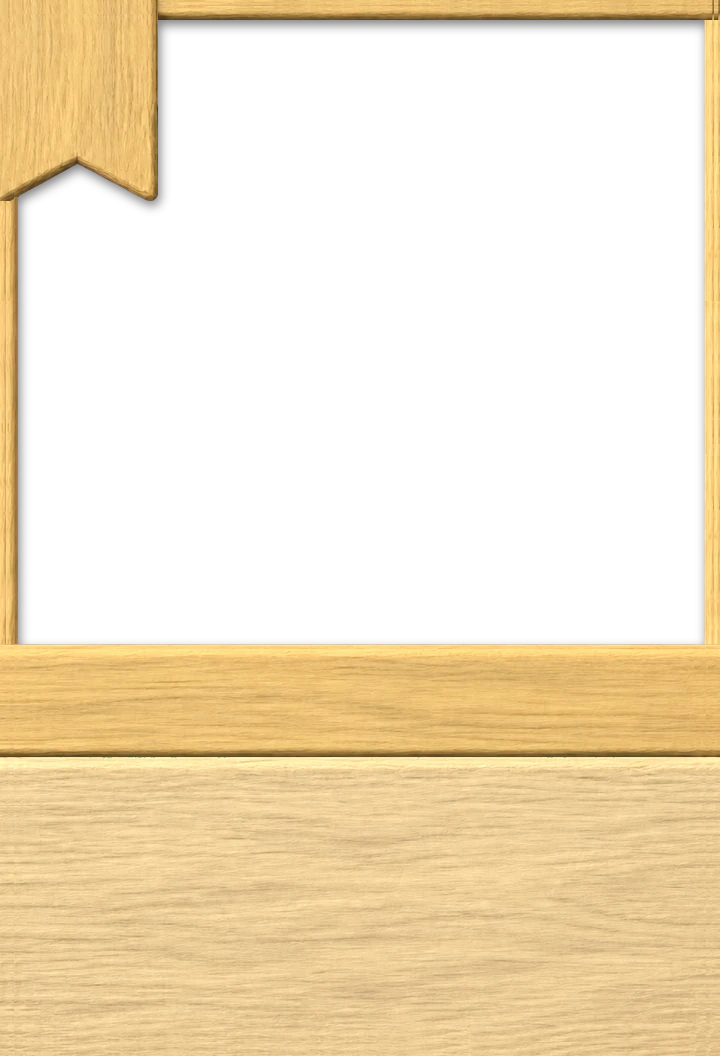
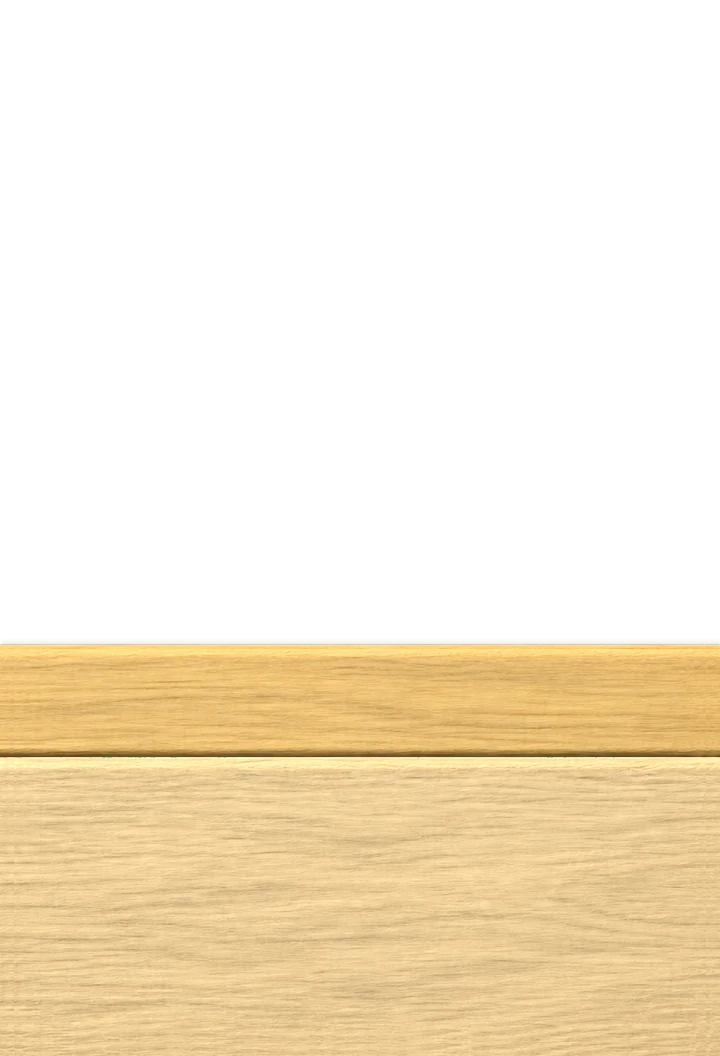
Stars prototype: no border; strength and level on wooden badges straddling the card's corners (Martin, 2026-11-15: the rim "takes away so much from the painting and gives so little", the star floated)
The painting is the card, its corners rounded; strength is inked on a round driftwood slice over the top-left corner, the
level inside the star over the bottom-right, each breaking the card's outline as Hearthstone's gems do. The disc is a
Codex painting, the star's sibling, toned and tinted by the bake.

Changed region(s): [[0.0, 0.0, 1.0, 0.625]]

diff --git a/animal_kingdom/web/static/app.css b/animal_kingdom/web/static/app.css
@@ -202,25 +202,36 @@ body:has(> #app > .mscr.home, > #app > .mscr.news, > #app > .mscr.sets, > #app >
    the collection (compact, --rd 0) it runs to the bottom with only the strength banner on it and the level's banner rising
    from the bottom-right; read in full (--rd 1, also set where game.css reads a hand card) it stops at the name plank, the
    rules panel below. The pieces carry their own shadow (baked: a live filter on every card overran graphics memory). */
-.card.fo { --rp: 11.45em; --frf: url(/static/kit2/card_frame_common_open.webp); --frc: url(/static/kit2/card_frame_common_open_compact.webp);
-  --fstar: url(/static/kit2/card_face_star_common.webp); --fplank: url(/static/kit2/card_face_plank_common.webp); }
-.card.fo.rare { --frf: url(/static/kit2/card_frame_rare_open.webp); --frc: url(/static/kit2/card_frame_rare_open_compact.webp);
-  --fstar: url(/static/kit2/card_face_star_rare.webp); --fplank: url(/static/kit2/card_face_plank_rare.webp); }
-.card.fo.legendary { --frf: url(/static/kit2/card_frame_legendary_open.webp); --frc: url(/static/kit2/card_frame_legendary_open_compact.webp);
-  --fstar: url(/static/kit2/card_face_star_legendary.webp); --fplank: url(/static/kit2/card_face_plank_legendary.webp); }
+.card.fo { --rp: 11.45em; --frf: url(/static/kit2/card_frame_common_open.webp); --frc: none;
+  --fstar: url(/static/kit2/card_face_star_common.webp); --fdisc: url(/static/kit2/card_face_disc_common.webp); --fplank: url(/static/kit2/card_face_plank_common.webp); }
+.card.fo.rare { --frf: url(/static/kit2/card_frame_rare_open.webp);
+  --fstar: url(/static/kit2/card_face_star_rare.webp); --fdisc: url(/static/kit2/card_face_disc_rare.webp); --fplank: url(/static/kit2/card_face_plank_rare.webp); }
+.card.fo.legendary { --frf: url(/static/kit2/card_frame_legendary_open.webp);
+  --fstar: url(/static/kit2/card_face_star_legendary.webp); --fdisc: url(/static/kit2/card_face_disc_legendary.webp); --fplank: url(/static/kit2/card_face_plank_legendary.webp); }
+/* No border: the painting is the card, its own corners rounded, and the two numbers sit on wooden badges straddling the
+   card's corners as Hearthstone's gems do (Martin, 2026-11-15: the rim "takes away so much from the painting and gives so
+   little"; a badge inside the picture floats). The card no longer clips, so the badges can break its outline. */
+.card.fo { overflow: visible; }
+.card.fo .pic, .card.fo .cframe { border-radius: inherit; overflow: hidden; }
 .card.fo.compact { --rd: 0; }
 .card.fo .pic { top: 0; }
 .card.fo .pic::after { display: none; }
+.card.fo.legendary::after { display: none; }
+.card.fo.legendary .pic::after { display: block; content: ''; position: absolute; top: -20%; bottom: -20%; left: 0; width: 35%; height: auto;
+  background: linear-gradient(90deg, rgba(255,240,200,0), rgba(255,240,200,.16), rgba(255,240,200,0)); animation: cardsheen 5.5s ease-in-out infinite; }
+@media (prefers-reduced-motion: reduce) { .card.fo.legendary .pic::after { display: none; } }
 .card.fo .nbar { top: auto; bottom: 8.4em; height: 3em; left: .55em; right: .55em; opacity: var(--rd, 1); }
 .card.fo .nbar::after { flex-grow: 1; }
 .card.fo .ctext { bottom: .4em; height: 7.75em; }
-/* The level's star (the painted star with its shadow's margin, .33em each side): on the rim's bottom-right corner; read
-   in full it sits on the name plank's top edge at the painting's corner. The number is inked in its middle. */
-.card.fo .lstar { position: absolute; z-index: 3; right: -.12em; bottom: calc(var(--rd, 1) * 9.32em - .12em); width: 4.66em; height: 4.55em;
+/* The badges: each painted piece (with its shadow's margin of .33em) centred near its corner so a third of it overhangs. */
+.card.fo .stab { left: -1.25em; top: -1.25em; width: 6em; height: 6em; background: var(--fdisc) 0 0 / 100% 100% no-repeat; }
+.card.fo .stab .n { top: 1.55em; height: 2.6em; left: .2em; right: 0; }
+.card.fo .stab .n.two { top: 1.8em; height: 2.1em; }
+.card.fo .lstar { position: absolute; z-index: 3; right: -1.1em; bottom: -1.1em; width: 4.66em; height: 4.55em;
   background: var(--fstar) 0 0 / 100% 100% no-repeat; display: flex; align-items: center; justify-content: center; padding: .55em .33em .1em; pointer-events: none; }
 .card.fo .lstar img { display: block; height: 1.7em; filter: brightness(.16) sepia(.6); }
 /* A compact card that names a deck (the versus moment) keeps its name, on the plank across its foot; a cover has no level. */
-.card.fo.compact.named .nbar { opacity: 1; bottom: 0; left: 0; right: 0; height: 3.14em; padding: 0 .8em; background: var(--fplank) 50% 0 / 100% auto no-repeat; }
+.card.fo.compact.named .nbar { opacity: 1; bottom: 0; left: 0; right: 0; height: 3.14em; padding: 0 .8em; background: var(--fplank) 50% 0 / 100% auto no-repeat; border-radius: 0 0 .45em .45em; }
 .card.fo.named .lstar { display: none; }
 /* Legendary: a slow sheen crosses the card. */
 .card.legendary::after { content: ''; position: absolute; top: -20%; bottom: -20%; left: 0; width: 35%; z-index: 4; pointer-events: none;

diff --git a/tools/stars/bake_card_face.py b/tools/stars/bake_card_face.py
@@ -117,18 +117,19 @@ def pieces(rarity):
 
 
 STAR = Path(__file__).parent / "star_master.png"     # the level's star, painted on magenta (Codex, 2026-11-15)
+DISC = Path(__file__).parent / "disc_master.png"     # the strength's disc, its sibling (Codex, 2026-11-15)
 
 
-def star(rarity):
-    """The level's star badge: the painted driftwood star keyed off its magenta, cropped, at 4em wide, tinted as the frame."""
-    im = np.asarray(Image.open(STAR).convert("RGB")).astype(int)
+def badge(src, rarity, em):
+    """A badge: the painted driftwood piece keyed off its magenta, cropped, `em` wide, toned and tinted as the frame."""
+    im = np.asarray(Image.open(src).convert("RGB")).astype(int)
     spill = (np.minimum(im[..., 0], im[..., 2]) - im[..., 1]).clip(0, 255)
     a = np.dstack([im.clip(0, 255), np.clip(255 - spill * 1.6, 0, 255)]).astype(np.uint8)
     m = a[..., 3] < 250                                   # despill the soft edge, as design/card3/key.py
     a[..., 0][m] = np.minimum(a[..., 0][m], a[..., 1][m] + 30); a[..., 2][m] = np.minimum(a[..., 2][m], a[..., 1][m])
     ys, xs = np.nonzero(a[..., 3] > 16)
     a = a[ys.min():ys.max() + 1, xs.min():xs.max() + 1]
-    w = round(4 * 36)
+    w = round(em * 36)
     a = np.asarray(Image.fromarray(a).resize((w, round(a.shape[0] * w / a.shape[1])), Image.LANCZOS))
     # The painting came out paler and warmer than the banner's wood: each channel scaled so its mean matches the banner's.
     comp, _ = load("card_frame_compact_thin.png")
@@ -175,10 +176,10 @@ if __name__ == "__main__":
         check(); sys.exit()
     for r in TINTS:
         p = pieces(r)
-        banner_only = canvas((p["rim"], (0, 0)), (p["banner"], (0, 0)))
-        full = canvas((p["rim"], (0, 0)), (p["panel"], (0, PANEL_Y)), (p["plank"], (0, PLANK_Y)), (p["banner"], (0, 0)))
-        out = {f"card_face_star_{r}": shadow_under(np.pad(star(r), ((PAD, PAD), (PAD, PAD), (0, 0)))),
-               f"card_frame_{r}_open_compact": shadow_under(banner_only),
+        # No border (Martin, 2026-11-15): the full card's frame is only the plank and the panel; the compact card has none.
+        full = canvas((p["panel"], (0, PANEL_Y)), (p["plank"], (0, PLANK_Y)))
+        out = {f"card_face_star_{r}": shadow_under(np.pad(badge(STAR, r, 4), ((PAD, PAD), (PAD, PAD), (0, 0)))),
+               f"card_face_disc_{r}": shadow_under(np.pad(badge(DISC, r, 5.33), ((PAD, PAD), (PAD, PAD), (0, 0)))),
                f"card_frame_{r}_open": shadow_under(full),
                f"card_face_plank_{r}": shadow_under(np.pad(p["plank"], ((0, PAD), (0, 0), (0, 0))))}
         for name, a in out.items():
